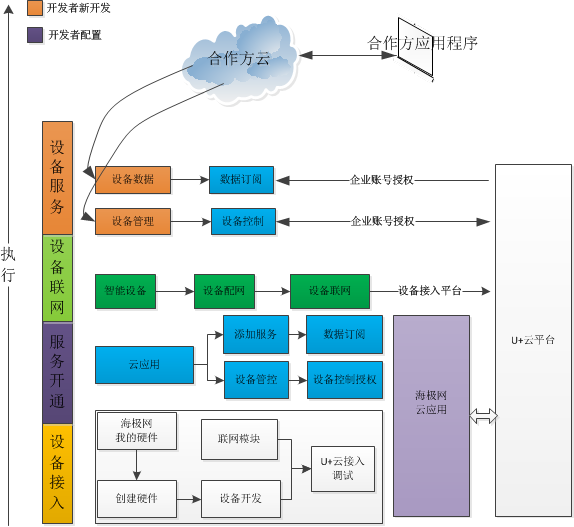
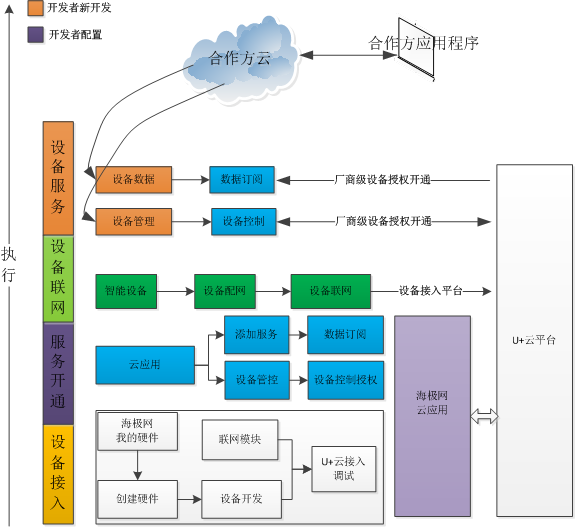
更新

diff --git a/zh-cn/Solutions/sl3.md b/zh-cn/Solutions/sl3.md
@@ -8,18 +8,20 @@
 
 ![整体方案图片][sl3_ztfa] 
 
-?>  合作方云与U+ IOT云之间采用云云对接的方法，云端之间互相访问提供交互认证的机制，保证访问安全流畅。  
+?>  厂商级设备授权方案是海尔U+ IOT云平台专门为企业用户提供的管理、控制设备的服务，企业用户开发自己的业务Server服务,使用云平台颁发的授权码，即可访问授权的平台服务。
+
+厂商授权设备控制服务帮助企业用户提高开发效率，节约人力及时间成本，快速实现设备控制管理功能。  
 U+ IOT为合作方开发方提供UWS API、uSDK开发套件，帮助快速实现服务接入。
 
-
+?> 企业用户开通厂商级设备管理-应用权限开通后，将获得订阅或控制授权设备类型下所有设备的权限。
   
 ### 方案设计
 
 ![整体方案图片][sl3zx]  
 
-**1、企业账号认证**  
+**1、厂商级设备授权开通**  
 
-?> 合作方云通过U+的开放平台海极网创建自己云应用的方式进行云认证授权，既保护合作方用户隐私同时快速接入U+ IOT平台。 
+?> 合作方联系海尔优家商务申请授权。 
 
 **2、设备联网**  
 
@@ -31,7 +33,7 @@ U+ IOT为合作方开发方提供UWS API、uSDK开发套件，帮助快速实现
 
 **3、设备控制**  
 
-?> 合作方自行开发云间对接，U+提供UWS API，UWS API提供设备控制及设备数据订阅功能。 
+?> 合作方自行开发云间对接，U+平台提供设备控制及设备数据订阅功能。 
 
 ***其他因素：若合作方的企业账号申请了某类型设备的管理权，可按设备类型TypeID订阅设备消息***
 

diff --git a/_sidebar.md b/_sidebar.md
@@ -6,7 +6,7 @@
 
 	* [硬件网关方案](zh-cn/Solutions/sl6) 
 	* [云账号对接方案](zh-cn/Solutions/sl5)  
-	* [企业账号方案](zh-cn/Solutions/sl3)
+	* [厂商级设备授权方案](zh-cn/Solutions/sl3)
 
 * 服务接入方案
 	* [海尔账号Oauth授权](zh-cn/Solutions/sl4)  
